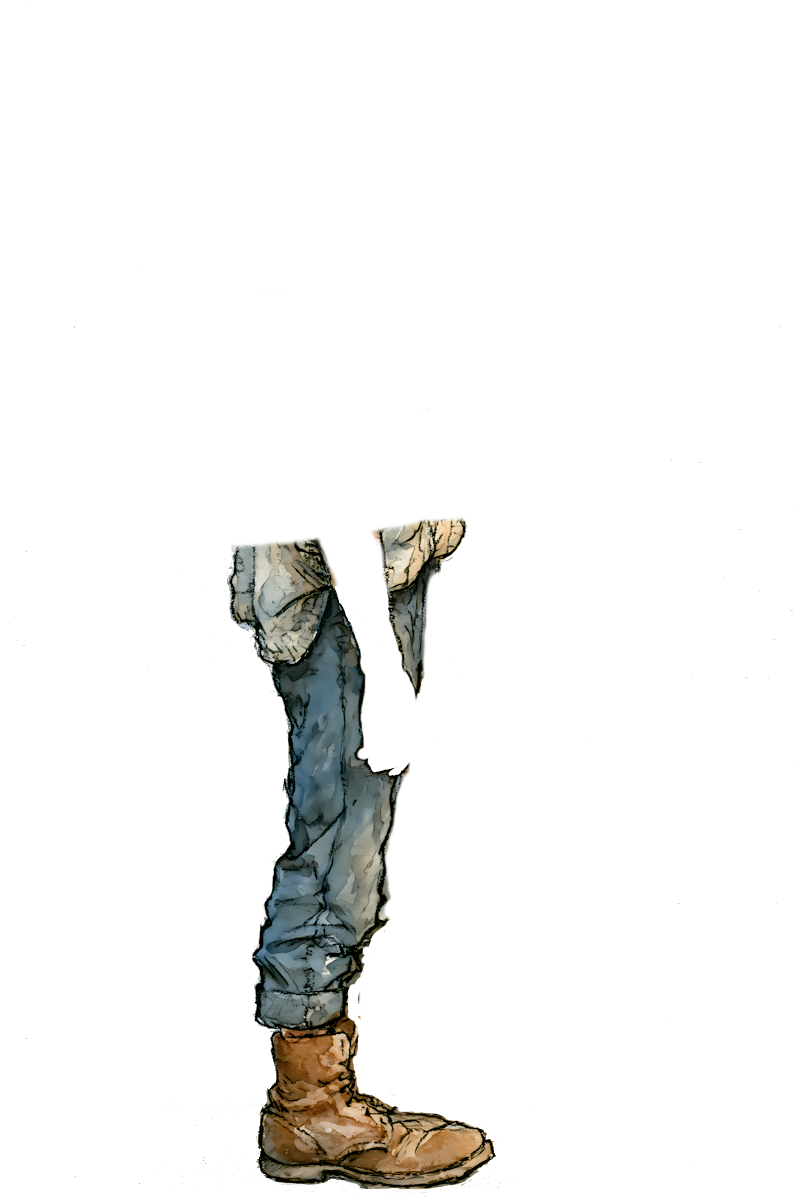
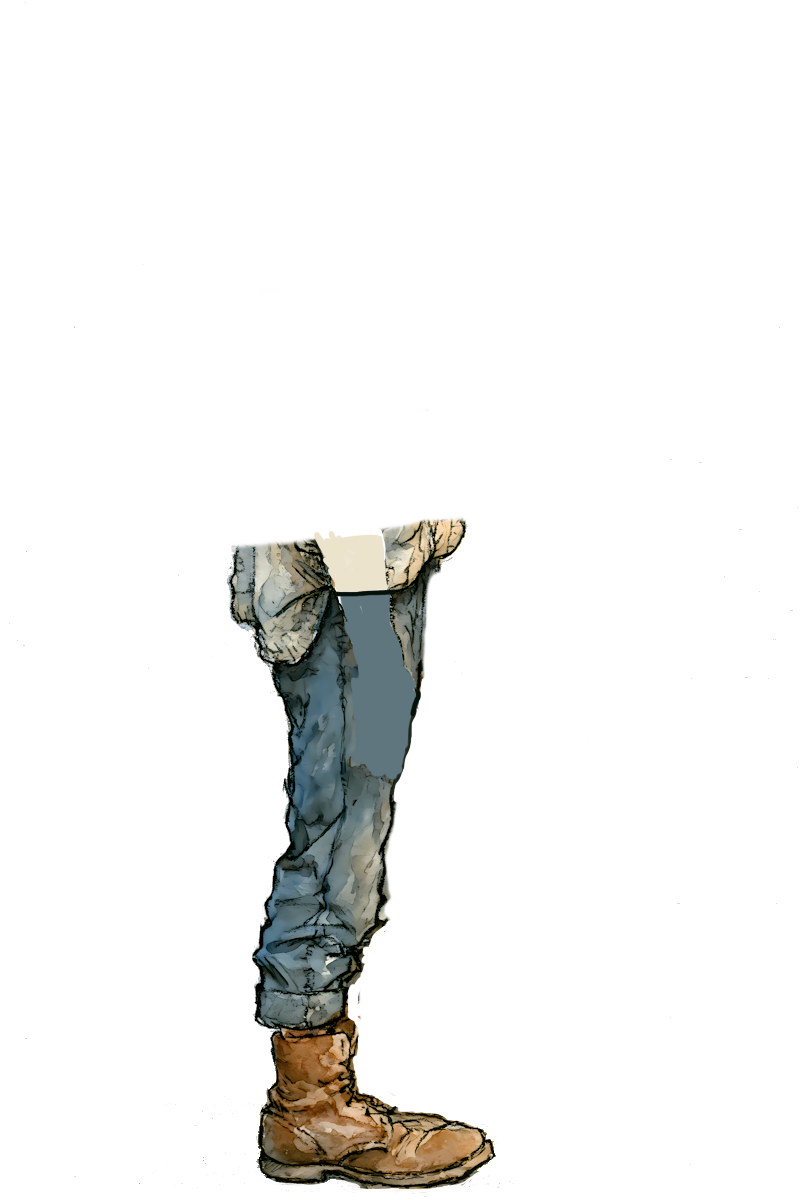
add book content

Changed region(s): [[0.375, 0.4317, 0.5312, 0.6783]]

diff --git a/src/systems/BookOverlay.ts b/src/systems/BookOverlay.ts
@@ -1,0 +1,164 @@
+import Phaser from 'phaser';
+import { W, H, u, SCALE } from '../config/constants';
+
+/**
+ * 翻开的书 · 铺满大半屏,展示简历。
+ * 底图 book_open.png 是真实美术图,文字按页面比例落进两页留白。
+ *
+ * 用法:
+ *   this.book = new BookOverlay(this);   // 在 create() 里
+ *   this.book.open();                    // 书架交互时
+ *   this.book.isOpen / this.book.close()
+ *
+ * 底图需放在 public/book_open.png,并在场景 preload() 里:
+ *   this.load.image('book_open', '/book_open.png');
+ */
+
+/* ===== 书占屏幕高度的比例 ===== */
+const BOOK_SCREEN_H_RATIO = 1.22;   // 书高 = 屏幕高 × 这个值
+
+/* ===== 底图里两页留白区的边界(相对底图的 0~1 比例,先估,跑起来再调) ===== */
+const AREA = {
+  leftX: 0.13,        // 左页文字左边界
+  centerX: 0.50,      // 中缝
+  rightEnd: 0.88,     // 右页文字右边界
+  padTop: 0.18,       // 顶部留白
+};
+
+const INK = '#3a2f22';
+const INK_SOFT = '#6b5c48';
+const ACCENT = '#9a5b34';
+const FONT = '"Nunito", sans-serif';
+
+export class BookOverlay {
+  private scene: Phaser.Scene;
+  private root!: Phaser.GameObjects.Container;
+  private scrim!: Phaser.GameObjects.Rectangle;
+  private bookImg!: Phaser.GameObjects.Image;
+  private bookW = 0;
+  private bookH = 0;
+  isOpen = false;
+
+  constructor(scene: Phaser.Scene) {
+    this.scene = scene;
+  }
+
+  open(): void {
+    if (this.isOpen) return;
+    this.isOpen = true;
+
+    /* 遮罩:压暗整个游戏世界,点击关闭 */
+    this.scrim = this.scene.add.rectangle(W / 2, H / 2, W, H, 0x140d06, 0.7)
+      .setScrollFactor(0).setDepth(2000).setInteractive();
+    this.scrim.on('pointerdown', () => this.close());
+
+    this.root = this.scene.add.container(W / 2, H / 2)
+      .setScrollFactor(0).setDepth(2001);
+
+    /* 书本底图:按屏幕高度比例缩放 */
+    this.bookImg = this.scene.add.image(0, 0, 'book_open').setOrigin(0.5, 0.5);
+    const targetH = H * BOOK_SCREEN_H_RATIO;
+    const scale = targetH / this.bookImg.height;
+    this.bookImg.setScale(scale);
+    this.bookW = this.bookImg.displayWidth;
+    this.bookH = this.bookImg.displayHeight;
+    this.root.add(this.bookImg);
+
+    this.drawLeftPage();
+    this.drawRightPage();
+
+    /* 弹出动画 */
+    this.root.setScale(0.9).setAlpha(0);
+    this.scene.tweens.add({
+      targets: this.root, scale: 1, alpha: 1,
+      duration: 280, ease: 'Back.easeOut',
+    });
+    this.scrim.setAlpha(0);
+    this.scene.tweens.add({ targets: this.scrim, alpha: 0.7, duration: 220 });
+  }
+
+  close(): void {
+    if (!this.isOpen) return;
+    this.isOpen = false;
+    this.scene.tweens.add({
+      targets: this.root, scale: 0.92, alpha: 0,
+      duration: 180, ease: 'Quad.easeIn',
+      onComplete: () => this.root.destroy(),
+    });
+    this.scene.tweens.add({
+      targets: this.scrim, alpha: 0,
+      duration: 180, onComplete: () => this.scrim.destroy(),
+    });
+  }
+
+  /* ---- 坐标换算:把「底图比例」转成「容器内像素」 ---- */
+  private px(ratioX: number): number {
+    return (ratioX - 0.5) * this.bookW;
+  }
+  private py(ratioY: number): number {
+    return (ratioY - 0.5) * this.bookH;
+  }
+
+  /* ---- 文字辅助 ---- */
+  private sectionHeader(text: string, x: number, y: number, wRatio: number): number {
+    const t = this.scene.add.text(this.px(x), this.py(y), text.toUpperCase(),
+      { fontFamily: FONT, fontSize: `${13 * SCALE}px`, fontStyle: 'bold', color: ACCENT });
+    this.root.add(t);
+    const g = this.scene.add.graphics();
+    g.lineStyle(u(1.5), 0x9a5b34, 0.5);
+    g.lineBetween(this.px(x), this.py(y) + u(20), this.px(x + wRatio), this.py(y) + u(20));
+    this.root.add(g);
+    return y + 0.05;
+  }
+
+  private line(text: string, x: number, y: number, wRatio: number, opts?: {
+    soft?: boolean; size?: number; bold?: boolean;
+  }): number {
+    const size = opts?.size ?? 14;
+    const t = this.scene.add.text(this.px(x), this.py(y), text, {
+      fontFamily: FONT, fontSize: `${size * SCALE}px`,
+      color: opts?.soft ? INK_SOFT : INK,
+      fontStyle: opts?.bold ? 'bold' : 'normal',
+      wordWrap: { width: this.bookW * wRatio },
+      lineSpacing: u(3),
+    });
+    this.root.add(t);
+    return y + (t.height / this.bookH) + 0.018;
+  }
+
+  /* ---- 左页:简介 + 联系方式(占位) ---- */
+  private drawLeftPage(): void {
+    const x = AREA.leftX;
+    const w = AREA.centerX - AREA.leftX - 0.04;
+    let y = AREA.padTop;
+
+    y = this.line('Your Name', x, y, w, { size: 22, bold: true });
+    y = this.line('Product Designer · New Grad', x, y, w, { soft: true });
+    y += 0.03;
+    y = this.sectionHeader('About', x, y, w);
+    y = this.line('两三句自我简介占位。谁、做什么、找什么方向。', x, y, w);
+    y += 0.03;
+    y = this.sectionHeader('Contact', x, y, w);
+    y = this.line('[email redacted]', x, y, w, { soft: true });
+    y = this.line('yoursite.com', x, y, w, { soft: true });
+    y = this.line('linkedin.com/in/you', x, y, w, { soft: true });
+  }
+
+  /* ---- 右页:经历 + 技能(占位) ---- */
+  private drawRightPage(): void {
+    const x = AREA.centerX + 0.03;
+    const w = AREA.rightEnd - AREA.centerX - 0.04;
+    let y = AREA.padTop;
+
+    y = this.line('Experience', x, y, w, { size: 22, bold: true });
+    y += 0.02;
+    y = this.line('公司 / 职位', x, y, w, { bold: true });
+    y = this.line('2024 — Present', x, y, w, { soft: true, size: 12 });
+    y = this.line('· 一句话成果占位。', x, y, w, { size: 13 });
+    y = this.line('· 第二条成果占位。', x, y, w, { size: 13 });
+    y += 0.03;
+    y = this.sectionHeader('Skills', x, y, w);
+    y = this.line('Figma · Prototyping · Design Systems', x, y, w, { soft: true });
+    y = this.line('User Research · UI', x, y, w, { soft: true });
+  }
+}

diff --git a/src/systems/Rainwindow.ts b/src/systems/Rainwindow.ts
@@ -1,0 +1,120 @@
+import Phaser from 'phaser';
+import { u } from '../config/constants';
+
+/**
+ * 窗户玻璃上的雨滴 · 纯 Phaser 实现(不依赖着色器)。
+ * 雨滴在窗户矩形区域内从顶部生成,顺玻璃下滑,留下逐渐消失的水痕,
+ * 偶尔汇聚成大滴加速。整体叠一层雾感玻璃。
+ *
+ * 用法(RoomScene):
+ *   this.rain = new RainWindow(this, WIN);   // create() 里
+ *   this.rain.update(dt);                    // update() 里每帧
+ *
+ * 坐标用「房间逻辑坐标」传入,内部用 u() 转物理像素。
+ */
+
+/* 窗户区域(房间逻辑坐标) */
+export interface WindowRect {
+  x: number;      // 左上 x
+  y: number;      // 左上 y
+  w: number;      // 宽
+  h: number;      // 高
+}
+
+/* ===== 参数:调这里改效果 ===== */
+const DROP_COUNT = 34;        // 同时存在的雨滴数
+const MIN_SPEED = 40;         // 最慢下滑速度(逻辑像素/秒)
+const MAX_SPEED = 150;        // 最快
+const MIN_R = 1.2;            // 雨滴最小半径
+const MAX_R = 3.0;            // 雨滴最大半径
+const TRAIL_FADE = 0.9;       // 水痕消退速度(越大消得越快)
+const GLASS_FOG = 0.10;       // 玻璃雾感透明度
+
+interface Drop {
+  x: number;
+  y: number;
+  r: number;
+  speed: number;
+  wobble: number;    // 左右微晃相位
+  trail: number;     // 当前水痕长度
+}
+
+export class RainWindow {
+  private scene: Phaser.Scene;
+  private rect: WindowRect;
+  private g: Phaser.GameObjects.Graphics;
+  private fog: Phaser.GameObjects.Graphics;
+  private drops: Drop[] = [];
+
+  constructor(scene: Phaser.Scene, rect: WindowRect) {
+    this.scene = scene;
+    this.rect = rect;
+
+    /* 玻璃雾层:一层淡淡的冷色,叠在窗户上制造"隔着玻璃"感 */
+    this.fog = scene.add.graphics().setDepth(50);
+    this.fog.fillStyle(0xaac4e0, GLASS_FOG);
+    this.fog.fillRect(u(rect.x), u(rect.y), u(rect.w), u(rect.h));
+
+    /* 雨滴绘制层 */
+    this.g = scene.add.graphics().setDepth(51);
+
+    /* 初始化雨滴,随机分布在窗户里 */
+    for (let i = 0; i < DROP_COUNT; i++) {
+      this.drops.push(this.spawn(true));
+    }
+  }
+
+  private spawn(anywhere = false): Drop {
+    return {
+      x: this.rect.x + Math.random() * this.rect.w,
+      y: anywhere
+        ? this.rect.y + Math.random() * this.rect.h
+        : this.rect.y - Math.random() * 20,
+      r: MIN_R + Math.random() * (MAX_R - MIN_R),
+      speed: MIN_SPEED + Math.random() * (MAX_SPEED - MIN_SPEED),
+      wobble: Math.random() * Math.PI * 2,
+      trail: 0,
+    };
+  }
+
+  update(dt: number): void {
+    this.g.clear();
+
+    for (const d of this.drops) {
+      /* 大滴掉得快(重力感);顺带轻微左右晃 */
+      d.y += d.speed * dt * (0.6 + d.r / MAX_R);
+      d.wobble += dt * 2;
+      d.x += Math.sin(d.wobble) * 0.15;
+
+      /* 水痕:滑动时拉长,停下时消退 */
+      d.trail = Math.min(d.trail + d.speed * dt * 0.5, 40);
+      d.trail *= (1 - TRAIL_FADE * dt);
+
+      const px = u(d.x);
+      const py = u(d.y);
+      const pr = u(d.r);
+
+      /* 画身后的水痕(一条渐隐的细线) */
+      if (d.trail > 2) {
+        this.g.lineStyle(u(d.r * 0.7), 0xbfd8f0, 0.18);
+        this.g.lineBetween(px, py - u(d.trail), px, py);
+      }
+
+      /* 画雨滴主体(半透明水珠 + 一点高光) */
+      this.g.fillStyle(0xdcecfb, 0.55);
+      this.g.fillCircle(px, py, pr);
+      this.g.fillStyle(0xffffff, 0.5);
+      this.g.fillCircle(px - pr * 0.3, py - pr * 0.3, pr * 0.35);
+
+      /* 滑出窗户底部 → 重置到顶部 */
+      if (d.y > this.rect.y + this.rect.h) {
+        Object.assign(d, this.spawn(false));
+      }
+    }
+  }
+
+  destroy(): void {
+    this.g.destroy();
+    this.fog.destroy();
+  }
+}

diff --git a/src/scenes/RoomScene.ts b/src/scenes/RoomScene.ts
@@ -2,6 +2,7 @@ import Phaser from 'phaser';
 import { W, H, u, SCALE } from '../config/constants';
 import { Dialog } from '../systems/dialog';
 import { HeroRig } from '../entities/HeroRig';
+import { BookOverlay } from '../systems/BookOverlay';
 
 /** 交互点:对应 design.md 表② */
 interface Interactive {
@@ -37,6 +38,7 @@ export class RoomScene extends Phaser.Scene {
   private pos = { x: START_X, y: START_Y };
   private keys!: Record<string, Phaser.Input.Keyboard.Key>;
   private dialog!: Dialog;
+  private book!: BookOverlay;
   private rig!: HeroRig;
   private heroShadow!: Phaser.GameObjects.Ellipse;
   private interactives: Interactive[] = [];
@@ -51,6 +53,7 @@ export class RoomScene extends Phaser.Scene {
     this.load.image('hero_arm', '/hero_base_arm.png');
     this.load.image('hero_leg', '/hero_base_leg.png');
     this.load.image('hero_torso', '/hero_base_body.png');
+    this.load.image('book_open', '/book_open.png');
   }
 
   create(): void {
@@ -59,6 +62,7 @@ export class RoomScene extends Phaser.Scene {
     this.paintScene();
     this.keys = this.input.keyboard!.addKeys('W,A,S,D,UP,LEFT,DOWN,RIGHT,E') as any;
     this.dialog = new Dialog(this);
+    this.book = new BookOverlay(this);
 
     this.buildInteractives();
     this.buildHero();
@@ -106,7 +110,7 @@ export class RoomScene extends Phaser.Scene {
       { x: 609, y: 520, range: 150, label: 'Warm up by the fire',
         action: () => this.dialog.open('Fireplace', 'design.md 表② I2 —— 关于我的内容放这里。') },
       { x: 1157, y: 520, range: 150, label: 'Browse the shelf',
-        action: () => this.dialog.open('Bookshelf · Works', 'design.md 表② I1 —— 作品卡片放这里。') },
+        action: () => this.book.open() },
       { x: 1425, y: 525, range: 140, label: 'Look at the desk',
         action: () => this.dialog.open('The Desk', 'design.md 表② I3/I4 —— 简历、联系方式放这里。') },
       { x: 1720, y: 520, range: 150, label: 'Look outside',
@@ -178,6 +182,13 @@ export class RoomScene extends Phaser.Scene {
     const dt = delta / 1000;
     const k = this.keys;
     const touch = (window as any).__touch || {};
+
+    /* 书打开时:E 关书,吃掉其他输入,角色待机 */
+    if (this.book.isOpen) {
+      if (Phaser.Input.Keyboard.JustDown(k.E) || touch.e) { touch.e = false; this.book.close(); }
+      this.rig.update(dt, false);
+      return;
+    }
 
     if (this.dialog.isOpen) {
       if (Phaser.Input.Keyboard.JustDown(k.E) || touch.e) { touch.e = false; this.dialog.close(); }